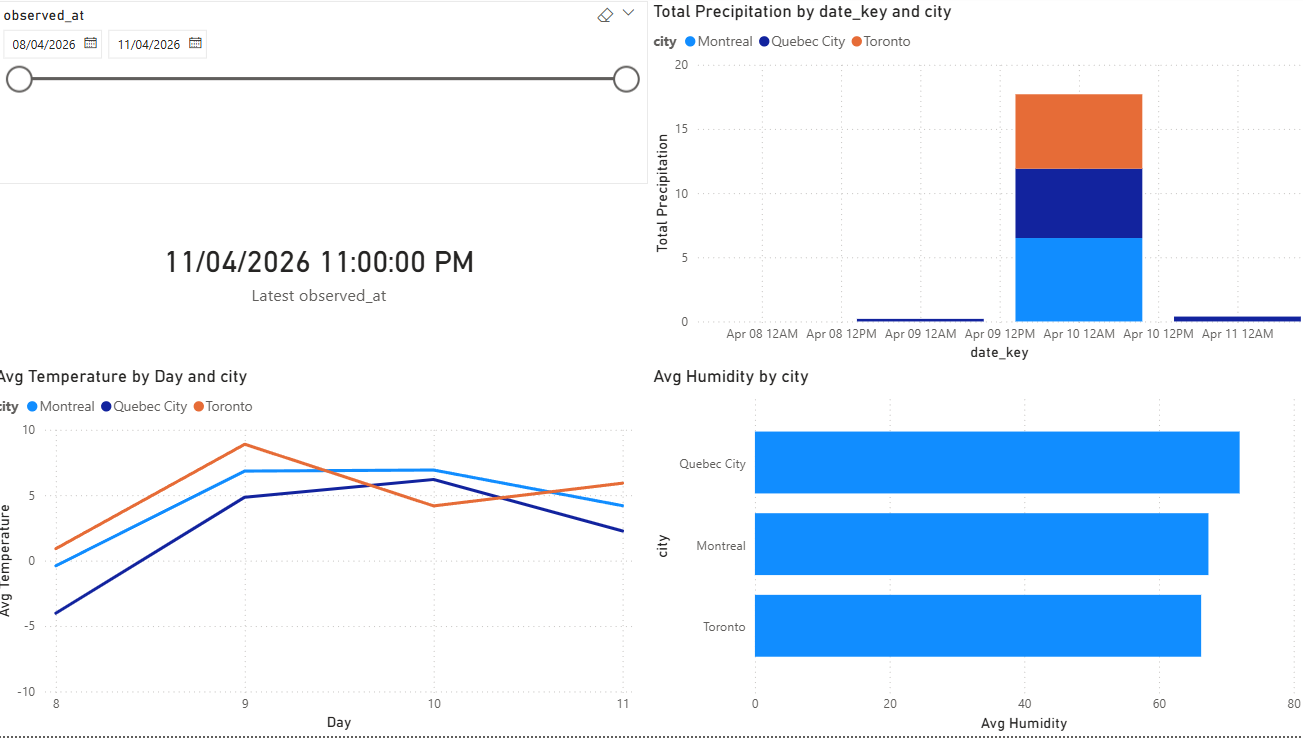
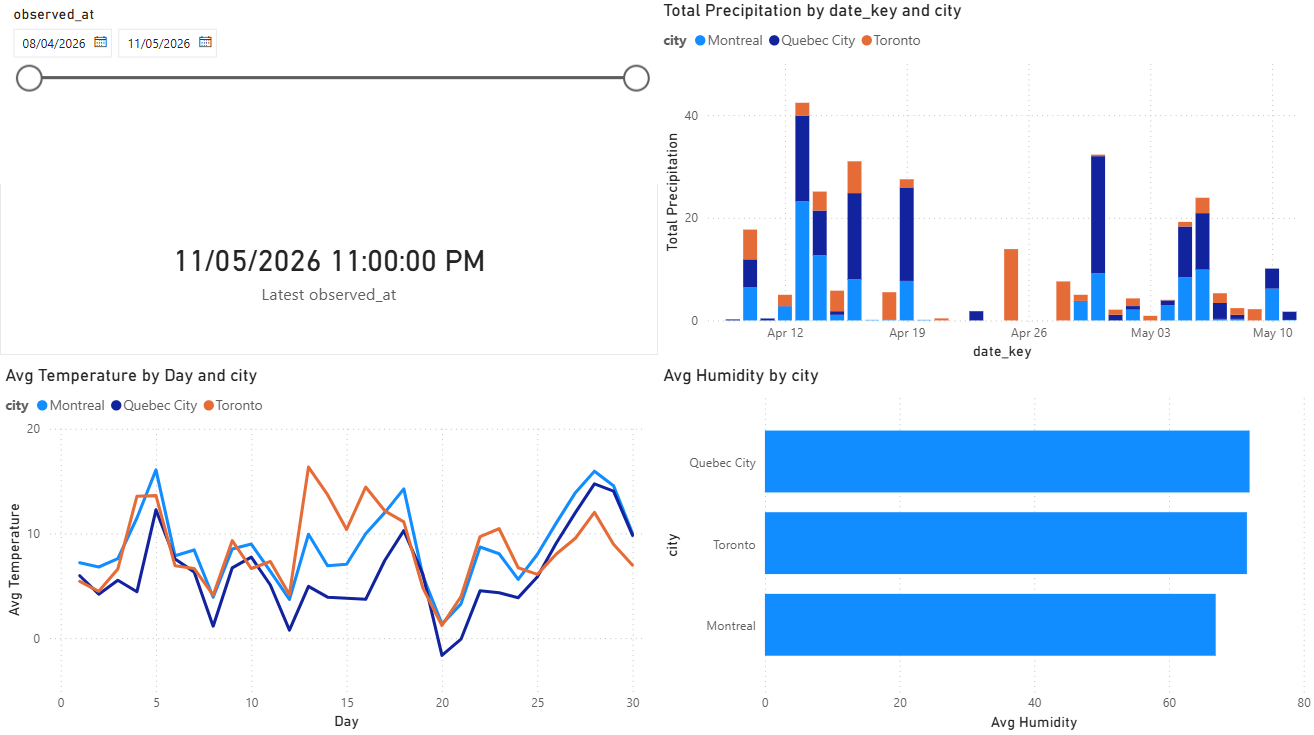
Add backfill weather history

diff --git a/src/backfill_weather_history.py b/src/backfill_weather_history.py
@@ -1,0 +1,114 @@
+from __future__ import annotations
+
+import argparse
+from datetime import datetime, timezone
+from pathlib import Path
+from typing import Any
+
+import pandas as pd
+import requests
+
+from config import CITIES, HOURLY_VARIABLES
+
+BASE_URL = "https://archive-api.open-meteo.com/v1/archive"
+
+
+def fetch_historical_weather(
+    city: dict[str, Any],
+    start_date: str,
+    end_date: str,
+) -> pd.DataFrame:
+    params = {
+        "latitude": city["latitude"],
+        "longitude": city["longitude"],
+        "start_date": start_date,
+        "end_date": end_date,
+        "hourly": ",".join(HOURLY_VARIABLES),
+        "timezone": "auto",
+    }
+
+    response = requests.get(BASE_URL, params=params, timeout=60)
+    response.raise_for_status()
+    payload = response.json()
+
+    hourly = payload.get("hourly")
+    if not hourly:
+        raise ValueError(f"No historical hourly data returned for {city['city']}")
+
+    df = pd.DataFrame(hourly)
+
+    df["city_id"] = city["city_id"]
+    df["city"] = city["city"]
+    df["province"] = city["province"]
+    df["latitude"] = city["latitude"]
+    df["longitude"] = city["longitude"]
+
+    df["ingested_at_utc"] = datetime.now(timezone.utc).replace(microsecond=0).isoformat()
+
+    df["time"] = pd.to_datetime(df["time"], errors="coerce")
+    df["date"] = df["time"].dt.date.astype(str)
+
+    ordered_columns = [
+        "city_id",
+        "city",
+        "province",
+        "latitude",
+        "longitude",
+        "time",
+        "date",
+        "temperature_2m",
+        "relative_humidity_2m",
+        "precipitation",
+        "surface_pressure",
+        "wind_speed_10m",
+        "weather_code",
+        "ingested_at_utc",
+    ]
+
+    return df[ordered_columns]
+
+
+def save_parquet(df: pd.DataFrame, start_date: str, end_date: str, output_dir: Path) -> Path:
+    output_dir.mkdir(parents=True, exist_ok=True)
+
+    run_ts = datetime.now(timezone.utc).strftime("%Y%m%dT%H%M%SZ")
+    output_path = output_dir / f"weather_history_{start_date}_to_{end_date}_{run_ts}.parquet"
+
+    df.to_parquet(output_path, index=False)
+    return output_path
+
+
+def main() -> None:
+    parser = argparse.ArgumentParser(description="Backfill historical weather data from Open-Meteo.")
+    parser.add_argument("--start-date", required=True, help="Start date, format YYYY-MM-DD")
+    parser.add_argument("--end-date", required=True, help="End date, format YYYY-MM-DD")
+
+    args = parser.parse_args()
+
+    frames: list[pd.DataFrame] = []
+
+    for city in CITIES:
+        print(f"Fetching historical weather data for {city['city']}...")
+        city_df = fetch_historical_weather(
+            city=city,
+            start_date=args.start_date,
+            end_date=args.end_date,
+        )
+        frames.append(city_df)
+
+    final_df = pd.concat(frames, ignore_index=True)
+
+    output_path = save_parquet(
+        df=final_df,
+        start_date=args.start_date,
+        end_date=args.end_date,
+        output_dir=Path("data/raw/weather"),
+    )
+
+    print("Historical backfill completed successfully.")
+    print(f"Rows written: {len(final_df)}")
+    print(f"File created: {output_path}")
+
+
+if __name__ == "__main__":
+    main()

diff --git a/README.md b/README.md
@@ -109,6 +109,7 @@ canadian-weather-data-pipeline
 │     └─ weather.duckdb
 │
 ├─ src
+│  ├─ backfill_weather_history.py
 │  ├─ config.py
 │  ├─ ingest_weather_api.py
 │  └─ load_duckdb.py
@@ -362,6 +363,36 @@ fct_weather_hourly
 
 ---
 
+# Historical Backfill
+
+The pipeline supports historical weather backfill ingestion using the Open-Meteo historical API.
+
+This functionality allows missing periods to be recovered when the pipeline has not been executed for an extended duration.
+
+Historical data is retrieved using:
+
+```text
+src/backfill_weather_history.py
+```
+
+python src/backfill_weather_history.py --start-date 2026-04-12 --end-date 2026-05-08
+
+The backfill process:
+
+- Retrieves historical weather observations
+- Stores the data as Parquet files
+- Loads the data into DuckDB
+- Rebuilds the analytical models with dbt
+
+After a historical reload, a full dbt rebuild is recommended:
+
+cd dbt_weather
+dbt build --full-refresh
+
+The incremental fact model is optimized for ongoing forecast updates, while historical backfills require a full refresh rebuild.
+
+---
+
 # Tests
 
 The project includes multiple layers of validation.
@@ -423,6 +454,7 @@ This layer demonstrates how the data engineering pipeline feeds a BI tool for an
 This project demonstrates several core data engineering practices:
 
 - API data ingestion
+- historical data backfill processing
 - Parquet-based data lake
 - DuckDB analytical warehouse
 - dimensional modeling (star schema)